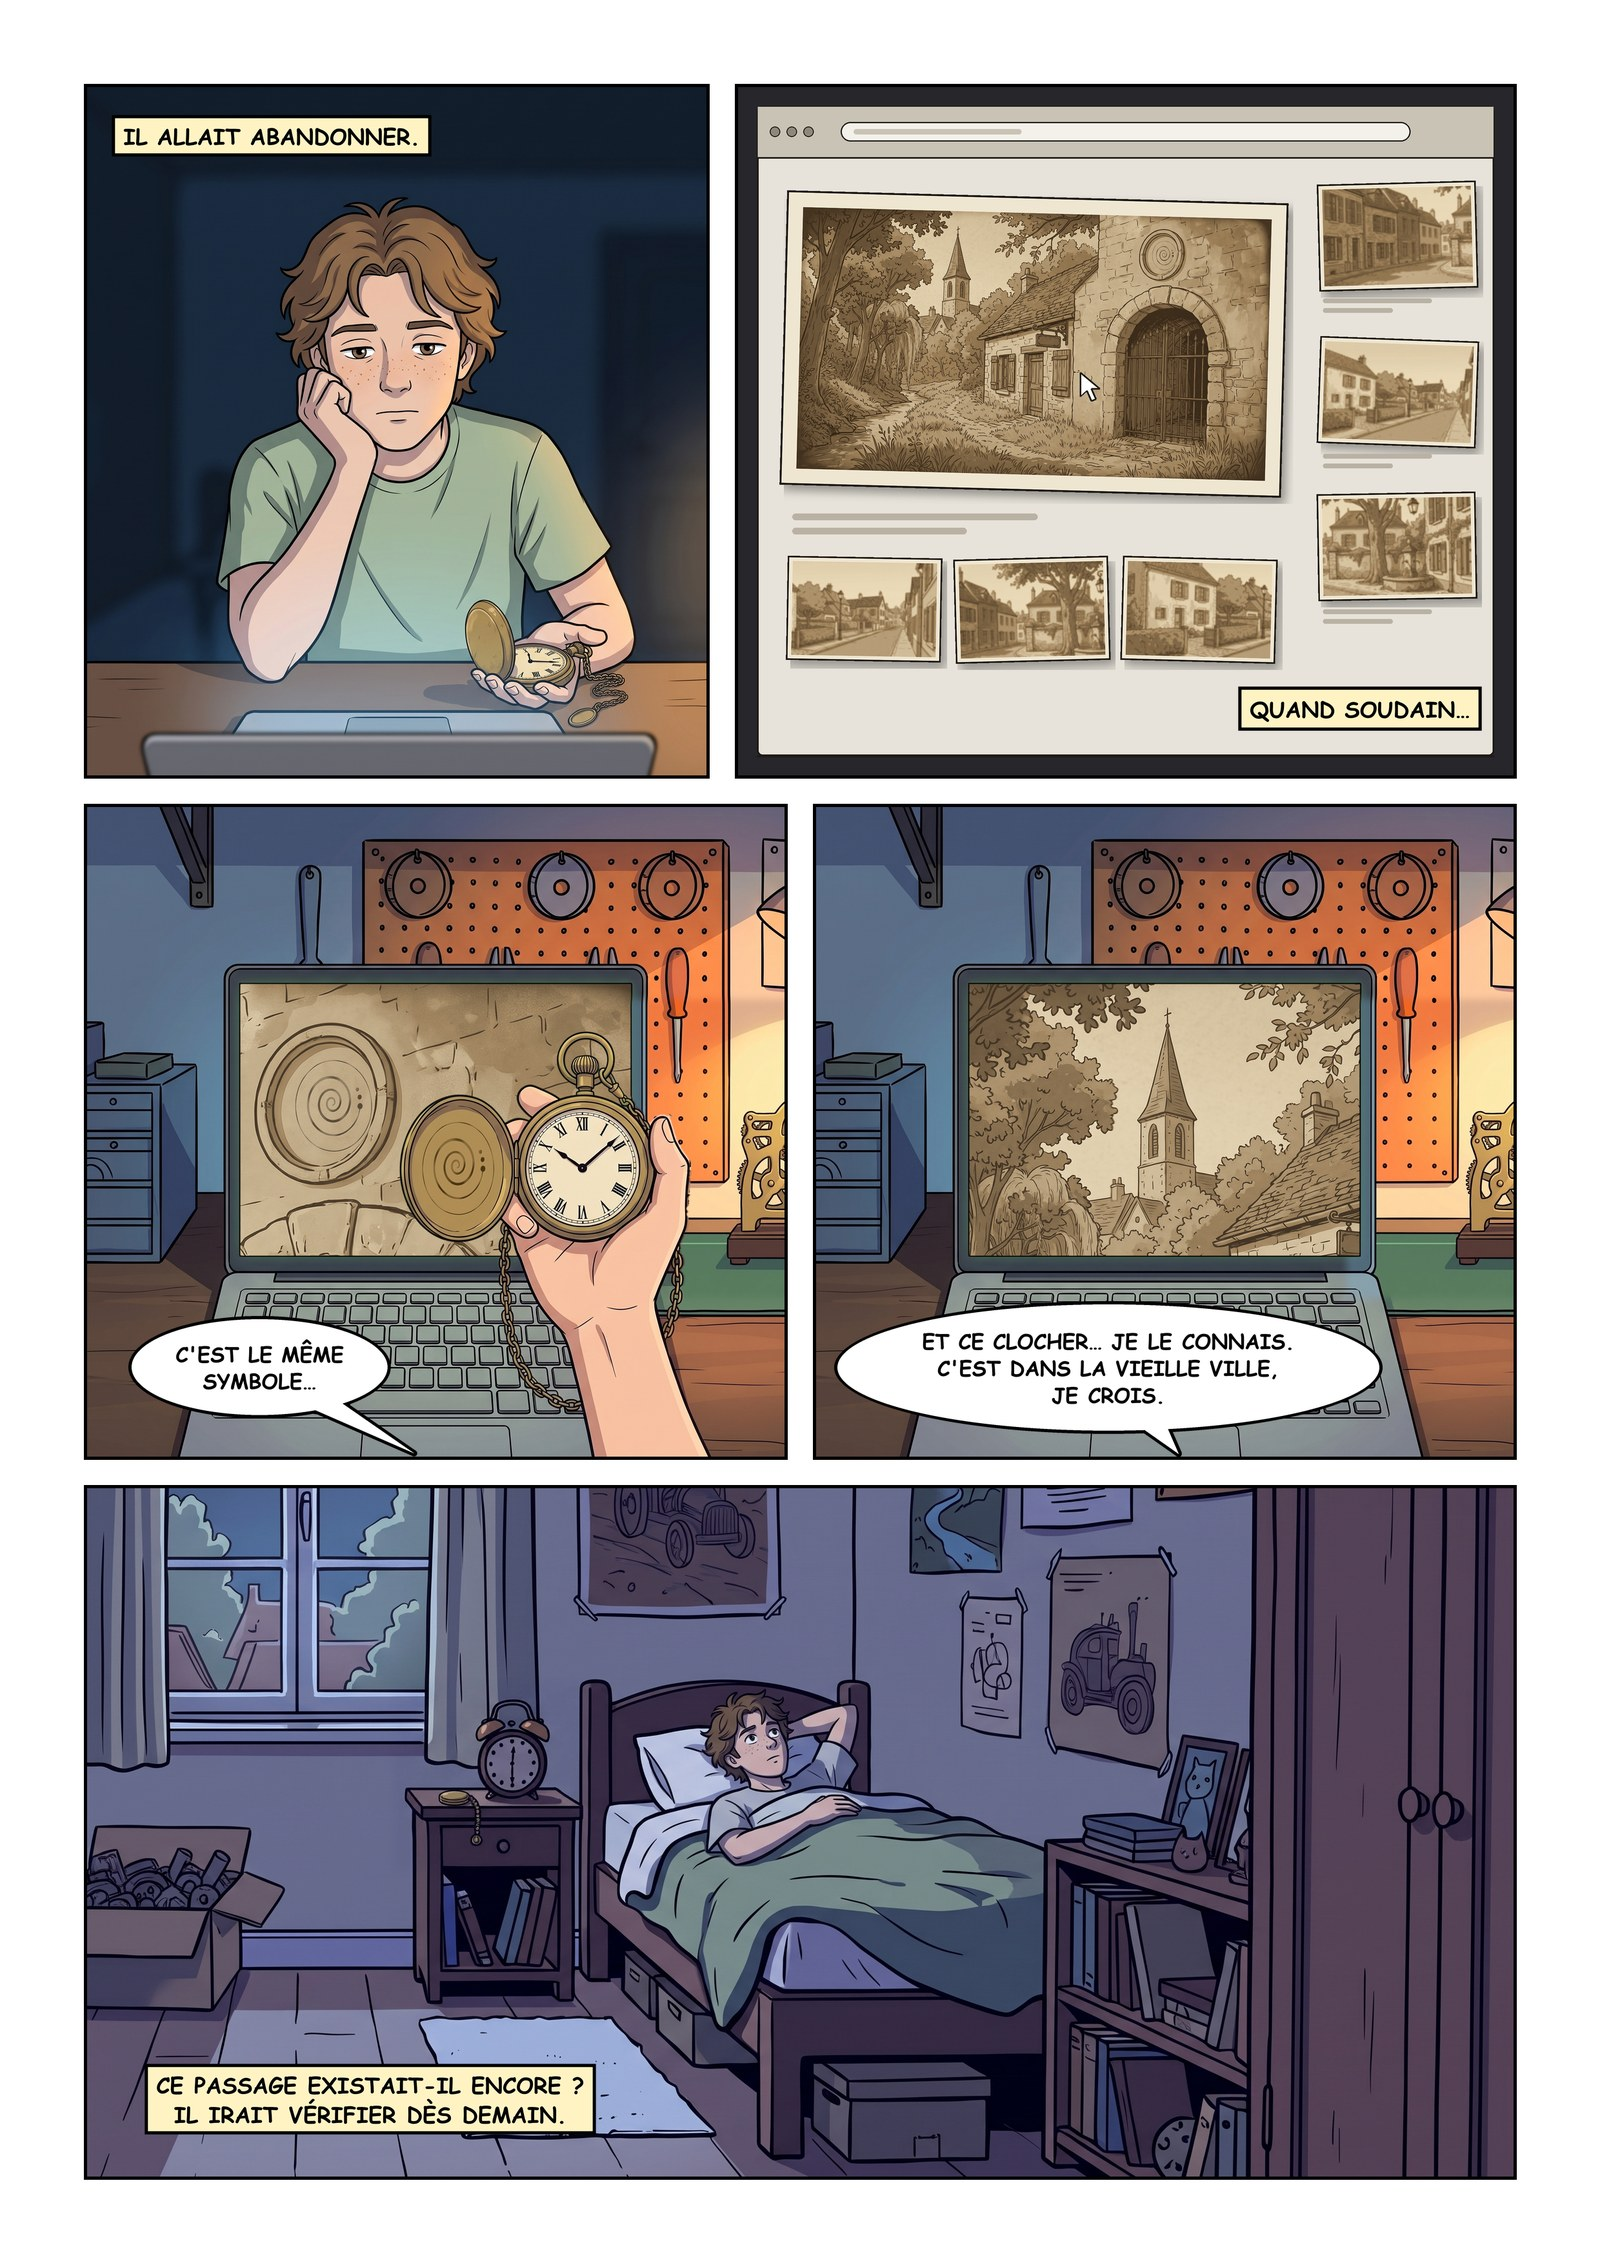
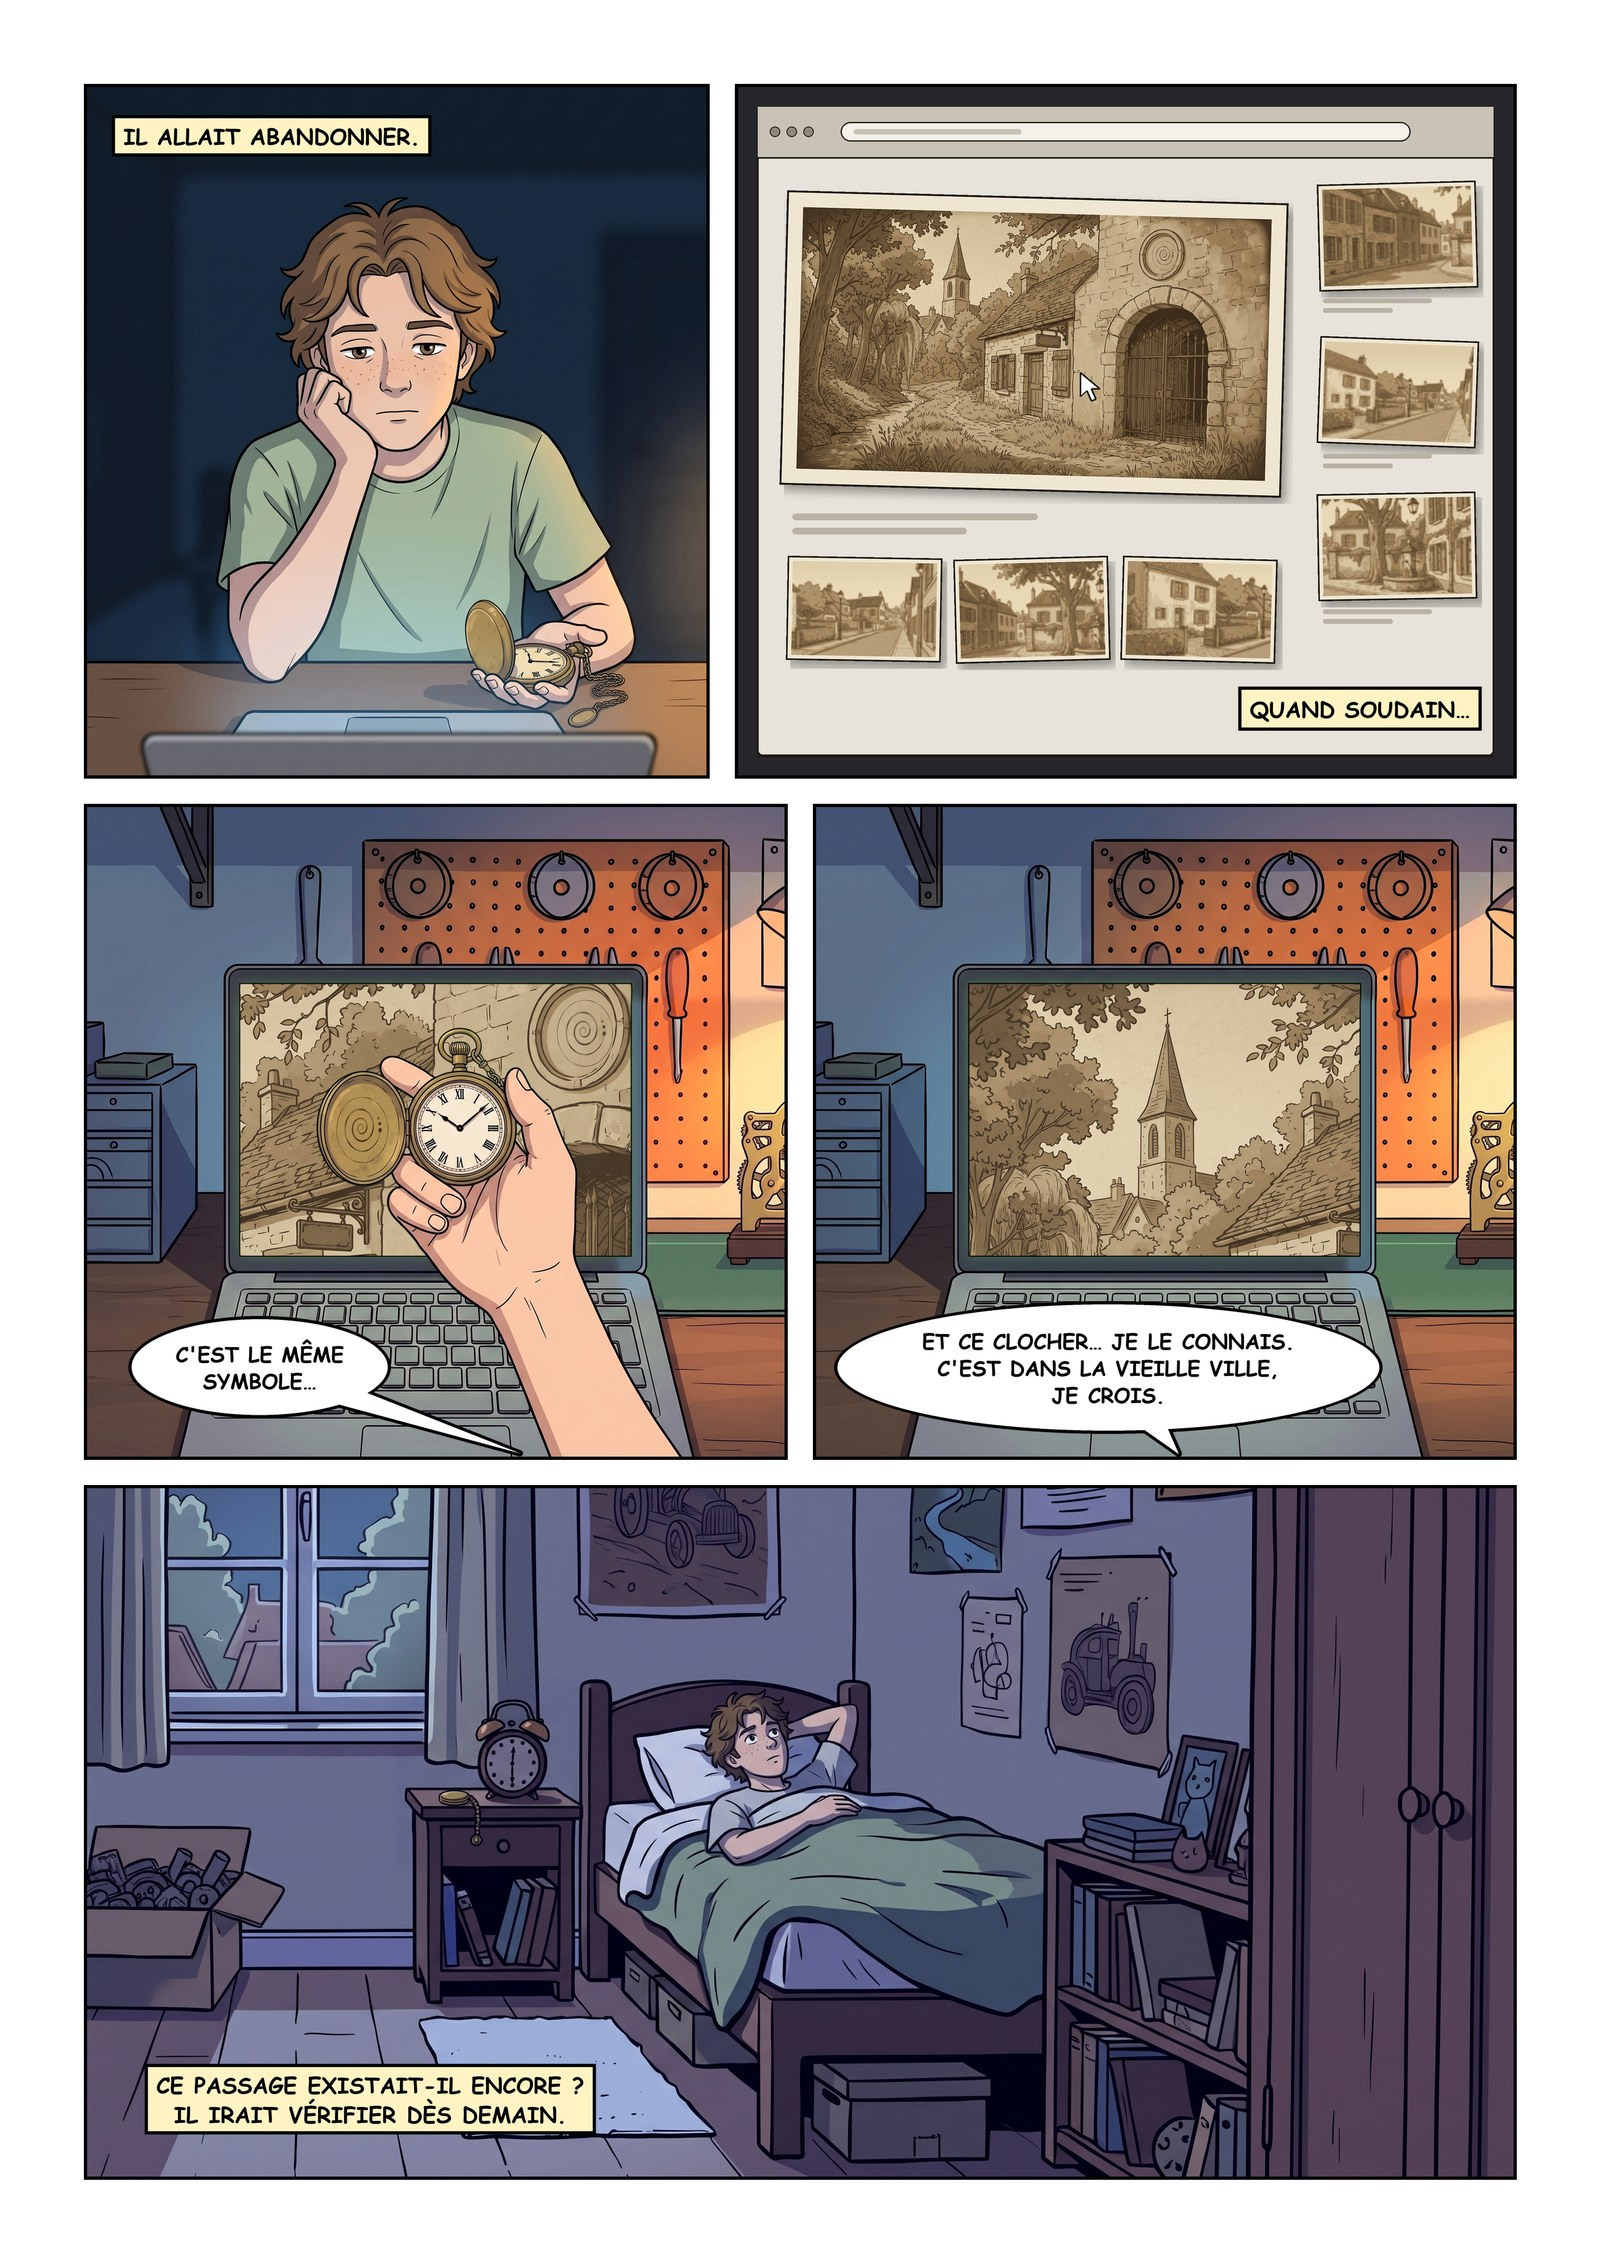
Ajoute la page 10 et corrige la page 9

Changed region(s): [[0.125, 0.4331, 0.4375, 0.6496]]

diff --git a/index.html b/index.html
@@ -84,7 +84,7 @@
 <nav id="vignettes" aria-label="Toutes les pages"></nav>
 <div id="message" role="status"></div>
 <script>
-const PAGES = [{"n": 1, "src": "pages/p01.jpg"}, {"n": 2, "src": "pages/p02.jpg"}, {"n": 3, "src": "pages/p03.jpg"}, {"n": 4, "src": "pages/p04.jpg"}, {"n": 5, "src": "pages/p05.jpg"}, {"n": 6, "src": "pages/p06.jpg"}, {"n": 7, "src": "pages/p07.jpg"}, {"n": 8, "src": "pages/p08.jpg"}, {"n": 9, "src": "pages/p09.jpg"}];                      // [{n: 1, src: "pages/p01.jpg"}, ...]
+const PAGES = [{"n": 1, "src": "pages/p01.jpg"}, {"n": 2, "src": "pages/p02.jpg"}, {"n": 3, "src": "pages/p03.jpg"}, {"n": 4, "src": "pages/p04.jpg"}, {"n": 5, "src": "pages/p05.jpg"}, {"n": 6, "src": "pages/p06.jpg"}, {"n": 7, "src": "pages/p07.jpg"}, {"n": 8, "src": "pages/p08.jpg"}, {"n": 9, "src": "pages/p09.jpg"}, {"n": 10, "src": "pages/p10.jpg"}];                      // [{n: 1, src: "pages/p01.jpg"}, ...]
 const N = PAGES.length, RATIO = 0.70696; // largeur / hauteur d'une planche
 const $ = id => document.getElementById(id);
 const vue = $("vue"), scene = $("scene");
